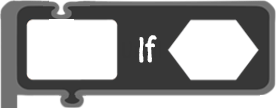
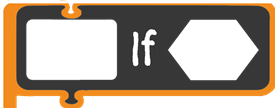
If block recolored

diff --git a/Visual Programming Editor/SiFEB_VE/src/com/sifeb/ve/IfBlock.java b/Visual Programming Editor/SiFEB_VE/src/com/sifeb/ve/IfBlock.java
@@ -36,9 +36,9 @@ public class IfBlock extends Holder {
     private static final String BG_IF_TOP_LEFT_IMG = "/com/sifeb/ve/images/If_V_top_left.png";
     private static final String BG_IF_TOP_MID_IMG = "/com/sifeb/ve/images/If_V_top_middle.png";
     private static final String BG_IF_TOP_RIGHT_IMG = "/com/sifeb/ve/images/If_V_top_right.png";
-    private static final String BG_BOTTOM1_IMG = "/com/sifeb/ve/images/Repeat_V_bottom.png";
-    private static final String BG_BOTTOM2_IMG = "/com/sifeb/ve/images/If_V_bottom.png";
-    private static final String BG_MID_IMG = "/com/sifeb/ve/images/Repeat_V_middle_2.png";
+    private static final String BG_BOTTOM1_IMG = "/com/sifeb/ve/images/If_V_bottom.png";
+    private static final String BG_BOTTOM2_IMG = "/com/sifeb/ve/images/If_V_bottom_2.png";
+    private static final String BG_MID_IMG = "/com/sifeb/ve/images/If_V_middle_2.png";
 
     private VBox condition;
     protected VBox ifHolders;
